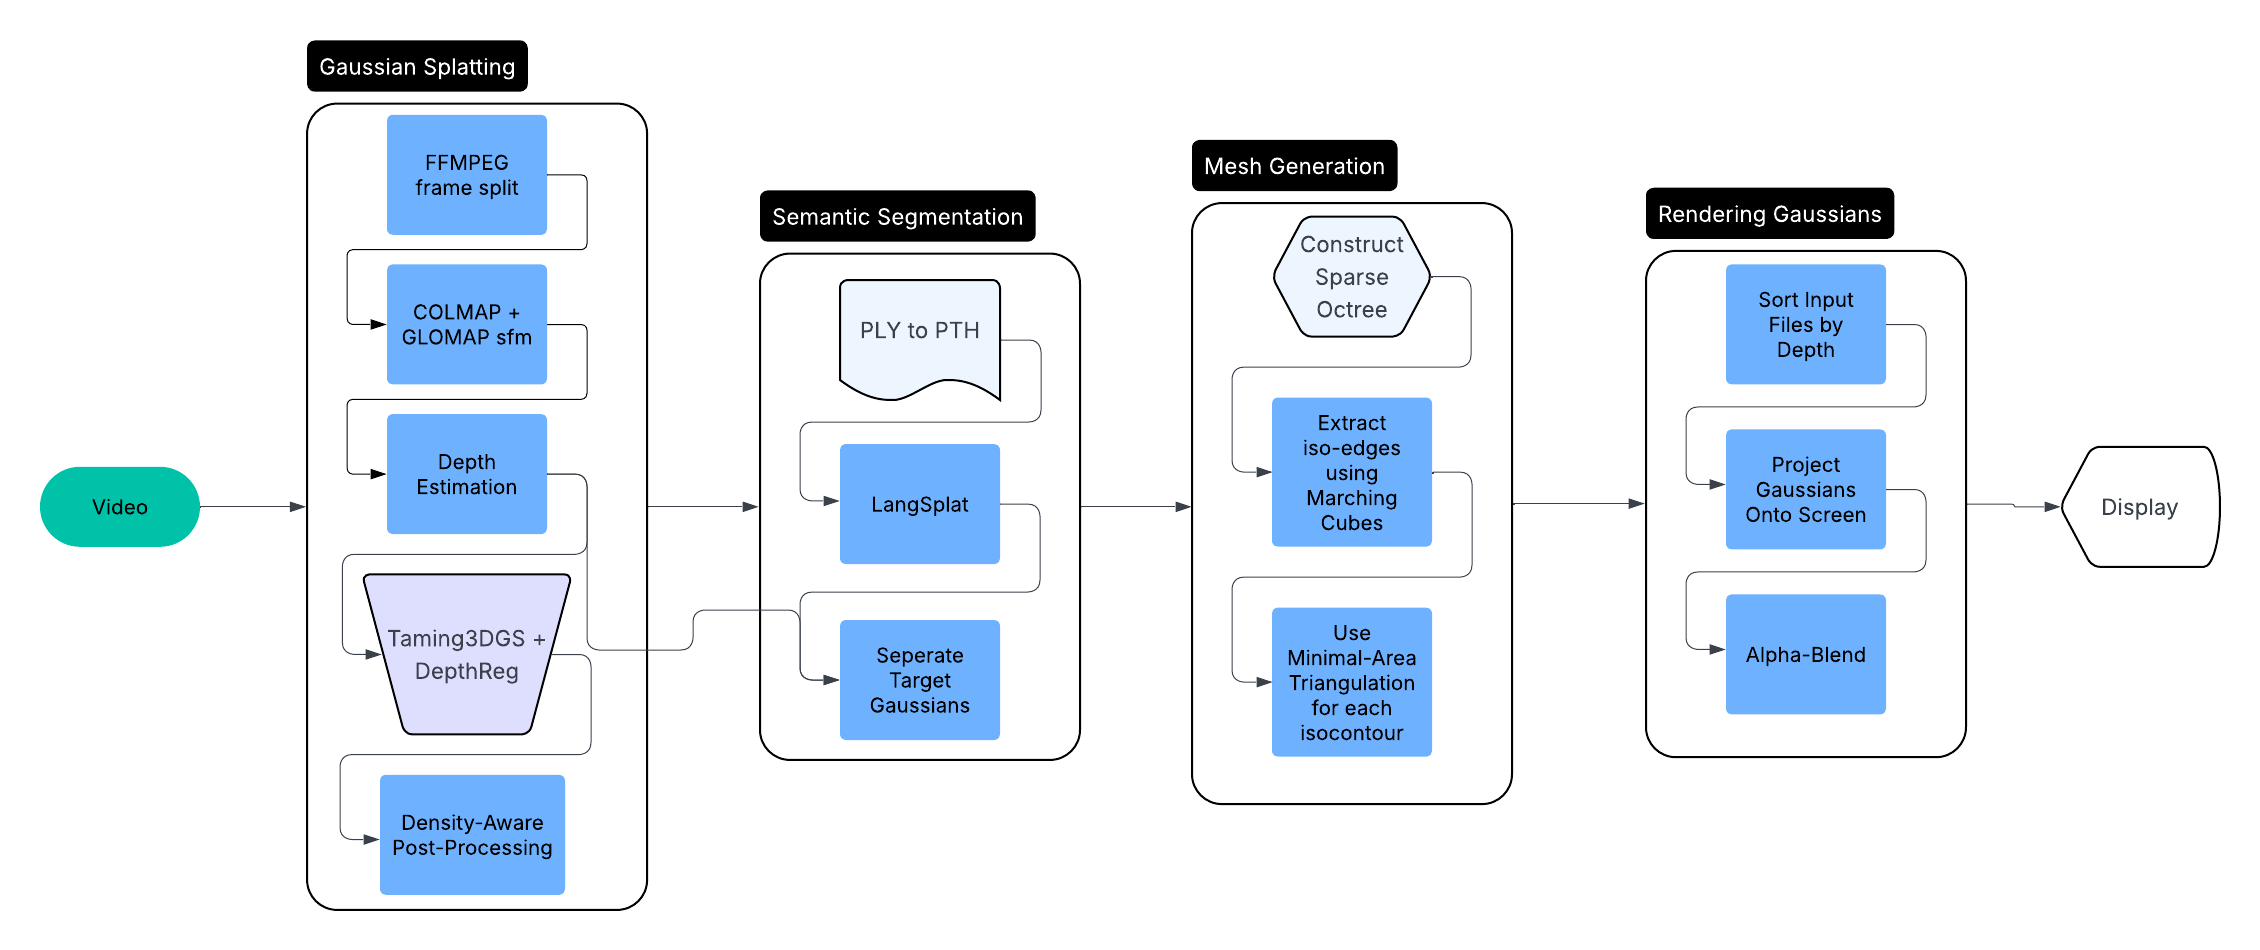
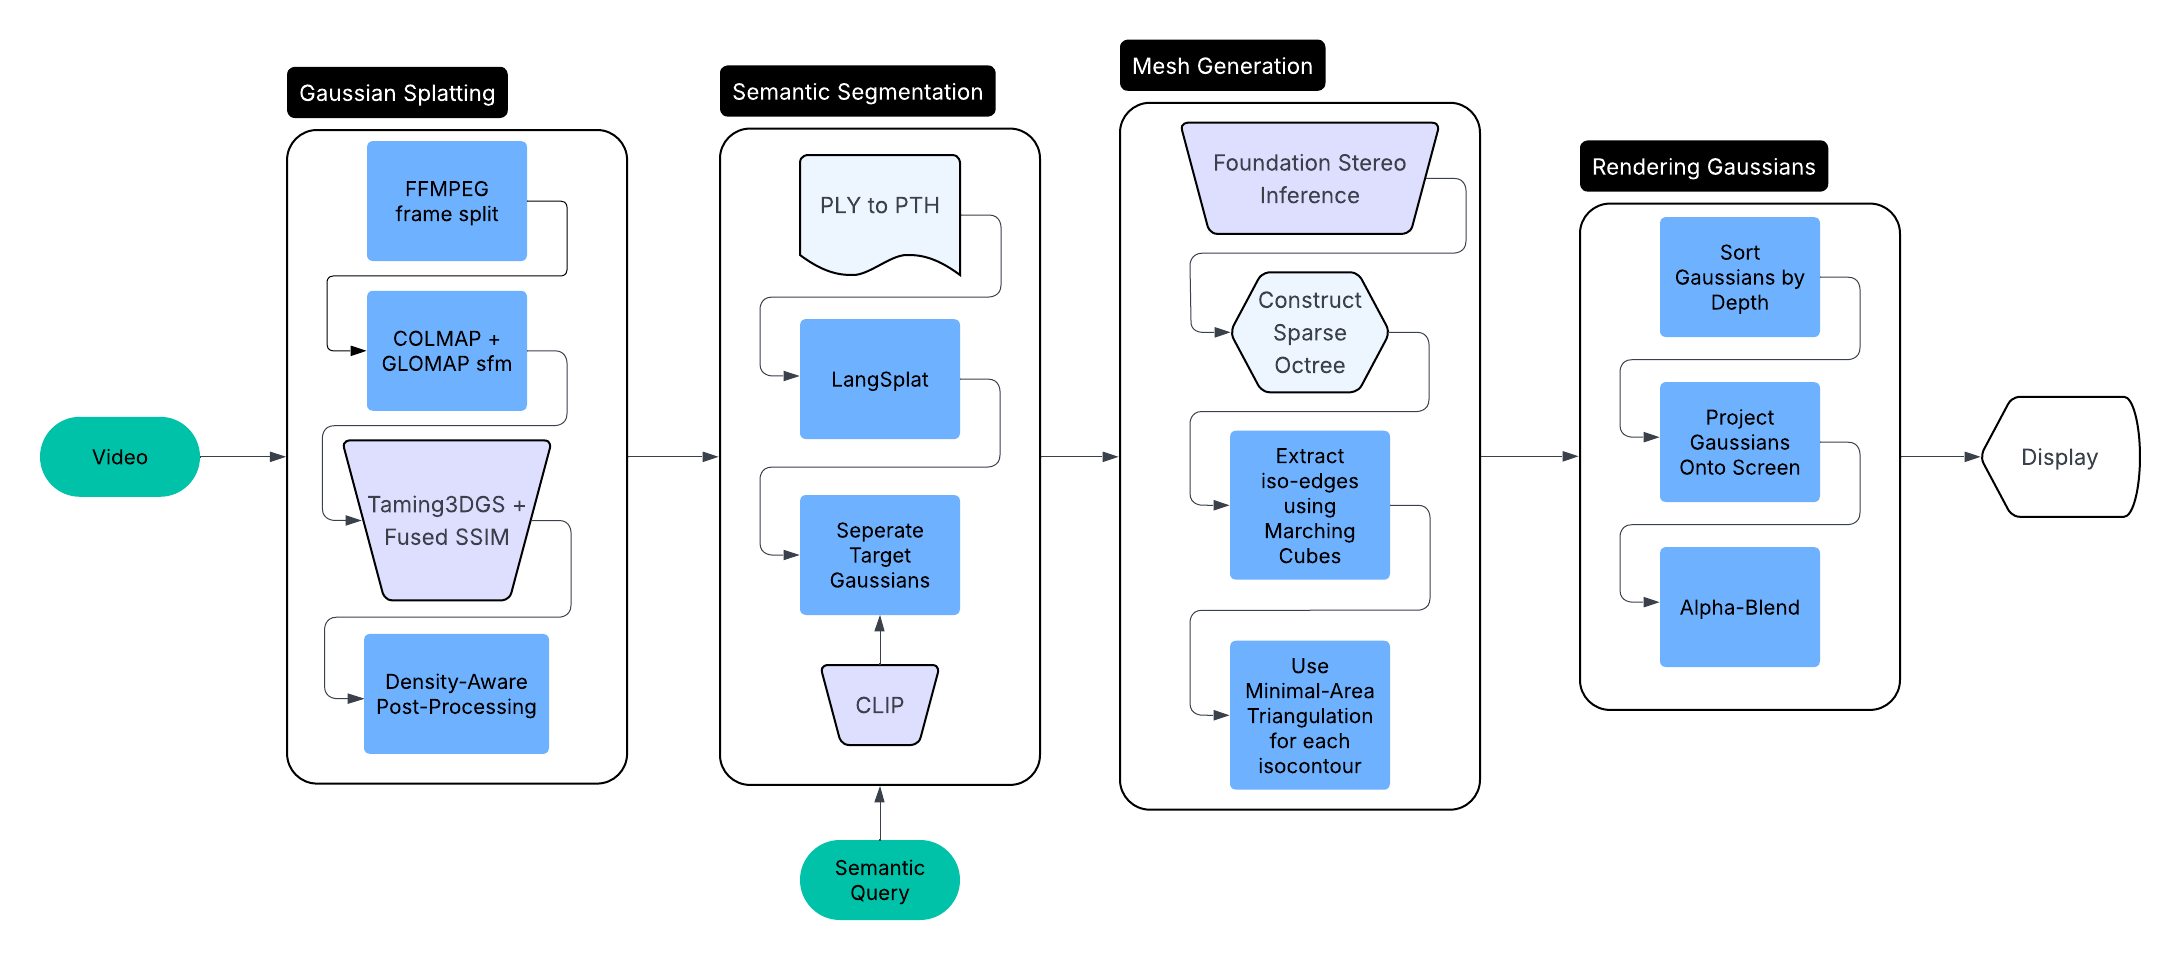
update flowchart

diff --git a/content/english/pages/write_up.md b/content/english/pages/write_up.md
@@ -54,9 +54,8 @@ We decompose the overall pipeline into four subtasks: (1) 3DGS-based scene recon
 
 We begin by converting the input video into a dense Gaussian Splatting (GS) representation. To achieve this, we first sample the video at 2 fps, and only select the sharpest frames using a variety of OpenCV functions. Next, we run *SIFT-GPU* + *COLMAP* feature extraction followed by *COLMAP* matching [7][13]. Finally, to optimize for speed, we utilize *GLOMAP*'s mapper to complete the SFM process [8]. 
 
-To enhance the geometric accuracy of the resulting point cloud, we incorporate both pre- and post-processing steps. Specifically, we perform pseudo-depth estimation on the input video via *DepthAnythingV2* and use the resulting depth maps to regularize the 3DGS optimization [1]. Additionally, after training, we apply a floater removal procedure based on density thresholds to eliminate spurious Gaussians.
 
-During training, we utilize the *Taming-3DGS* accelerated rasterization engine to achieve sub 20-minute training times on consumer GPU's (RTX 4070 mobile) [12].
+During training, we utilize the *Taming-3DGS* + Fused SSIM accelerated rasterization engine to achieve sub 20-minute training times on consumer GPU's (RTX 4070 mobile) [12].
 
 ### Semantical Segmentation
 
